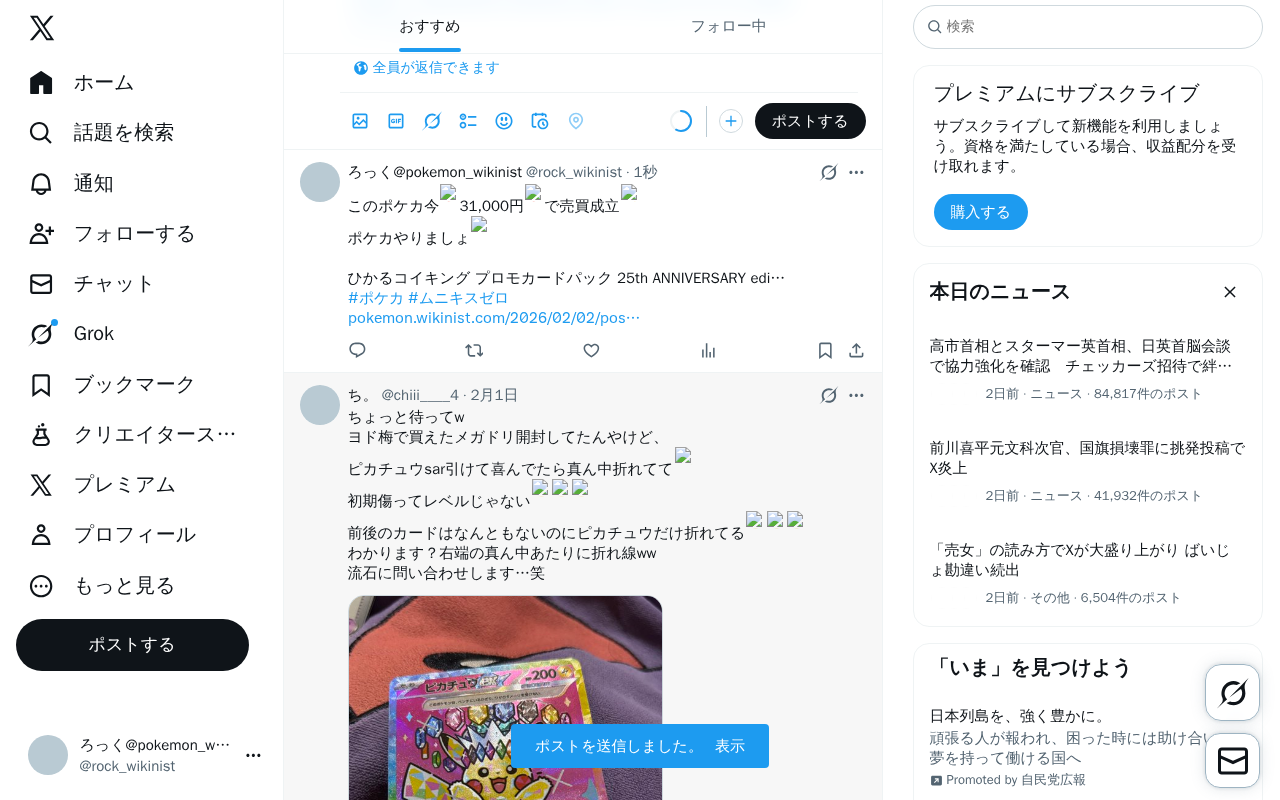
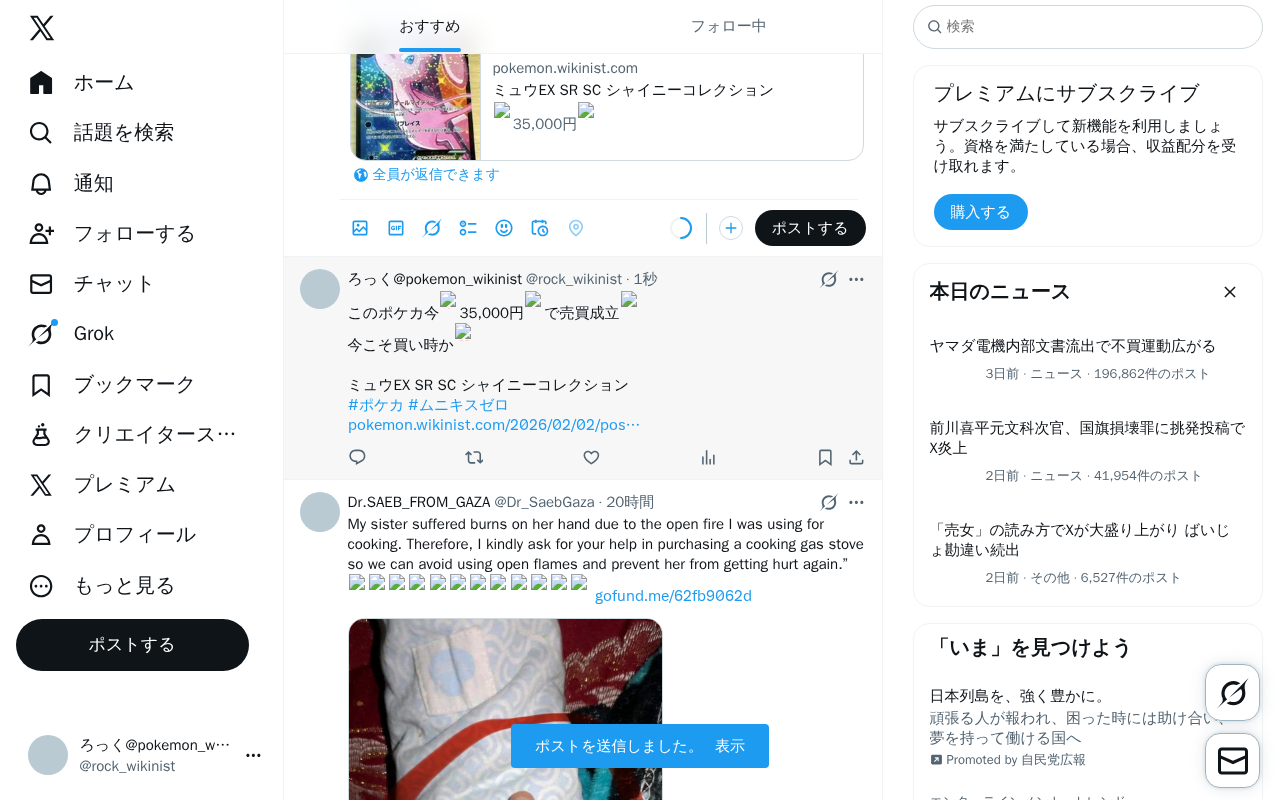
update system data

diff --git a/content/posts/test-pokemon-20260202-194605.md b/content/posts/test-pokemon-20260202-194605.md
@@ -1,0 +1,38 @@
+---
+title: "ミュウEX SR SC シャイニーコレクション"
+date: 2026-02-02T19:46:05+09:00
+description: "🔥35,000円🔥 メルカリで「ミュウEX SR SC シャイニーコレクション」が販売中！"
+amazon_url: "https://jp.mercari.com/item/m50178321597?afid=1391290753"
+robotsNoIndex: true
+categories: ["ポケモン"]
+tags: ["ミュウ", "3万円以上"]
+cover:
+  image: "https://static.mercdn.net/thumb/item/webp/m50178321597_1.jpg?1769992487"
+  hiddenInList: true
+  hiddenInSingle: true
+---
+
+<div class="image-and-buttons">
+    <div class="image-area" style="margin-bottom: 20px; text-align: center;">
+        <a href="https://jp.mercari.com/item/m50178321597?afid=1391290753" target="_blank" rel="nofollow sponsored noopener noreferrer">
+            <img src="https://static.mercdn.net/thumb/item/webp/m50178321597_1.jpg?1769992487" alt="35,000" style="max-width: 100%; border-radius: 8px; border: 1px solid #ddd;" />
+        </a>
+        <br><span style="font-size:1.5em;color:red;font-weight:bold;">🔥35,000円🔥</span>
+    </div>
+    <div class="link-buttons">
+        <a href="https://jp.mercari.com/item/m50178321597?afid=1391290753" target="_blank" rel="nofollow sponsored noopener noreferrer">
+            💎 商品状態を見る
+        </a>
+        <a href="https://jp.mercari.com/search?afid=1391290753&category_id=1289&keyword=%E3%83%9F%E3%83%A5%E3%82%A6EX%20SR%20SC%20%E3%82%B7%E3%83%A3%E3%82%A4%E3%83%8B%E3%83%BC%E3%82%B3%E3%83%AC%E3%82%AF%E3%82%B7%E3%83%A7%E3%83%B3" target="_blank" rel="nofollow sponsored noopener noreferrer">
+            🔍 類似商品を見る
+        </a>
+        <a href="https://jp.mercari.com/search?afid=1391290753&brand_id=&category_id=1289&color_id=&item_condition_id=&item_types=&keyword=%E3%83%9F%E3%83%A5%E3%82%A6EX%20SR%20SC%20%E3%82%B7%E3%83%A3%E3%82%A4%E3%83%8B%E3%83%BC%E3%82%B3%E3%83%AC%E3%82%AF%E3%82%B7%E3%83%A7%E3%83%B3&order=desc&shipping_method=&shipping_payer_id=&size_id=&sort=created_time&status=sold_out%2Ctrading" target="_blank" rel="nofollow sponsored noopener noreferrer">
+            📈 価格推移・履歴を見る
+        </a>
+    </div>
+</div>
+
+<p style="font-size:1.0em;color:#555;line-height:1.6;">
+「ミュウEX SR SC シャイニーコレクション」はメルカリに出品されました！<br>
+最新のポケモン情報は当サイトで随時更新中です。
+</p>
